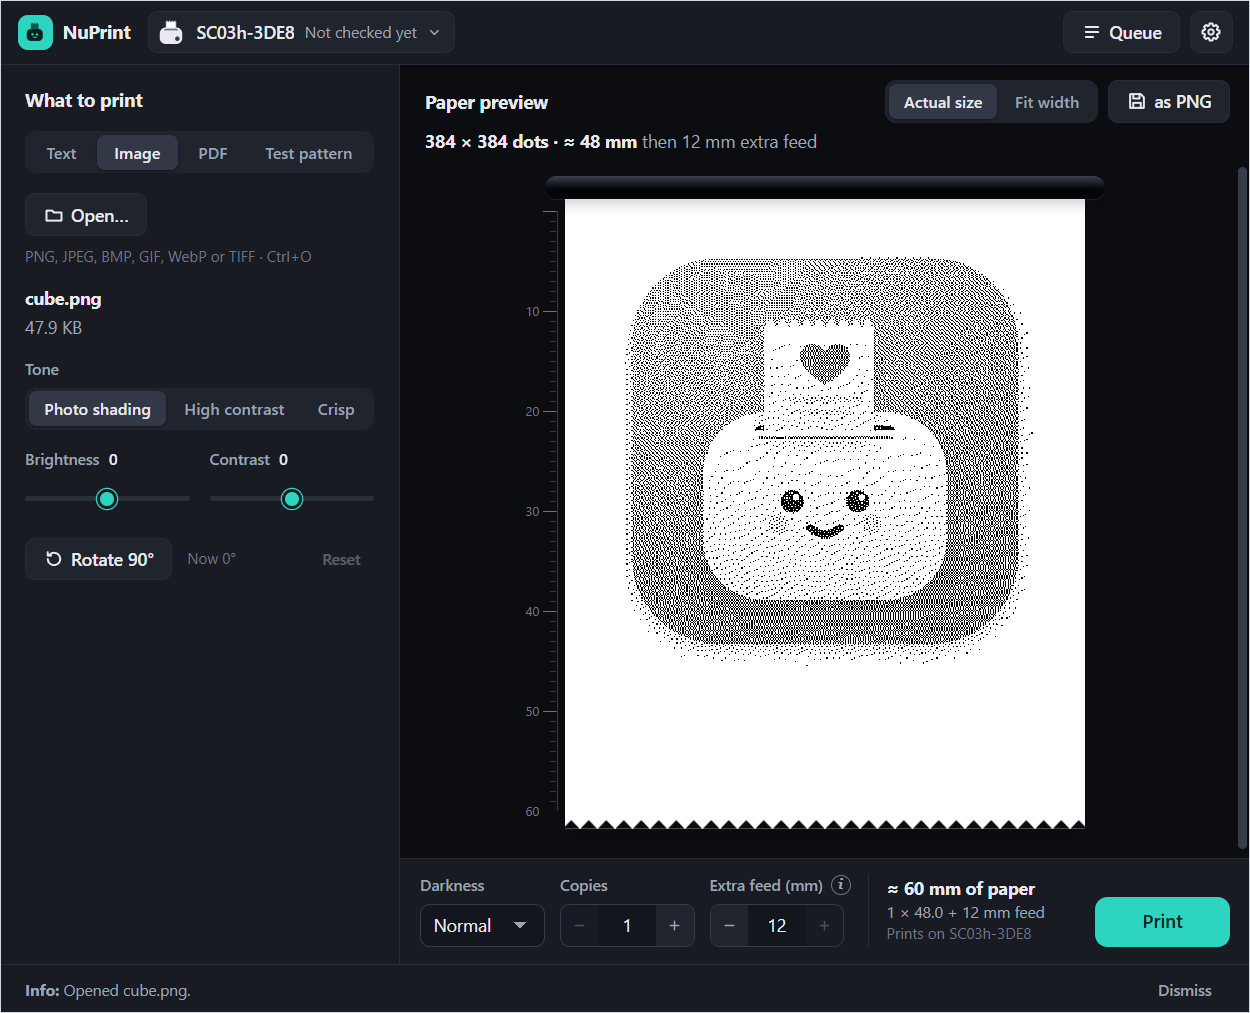
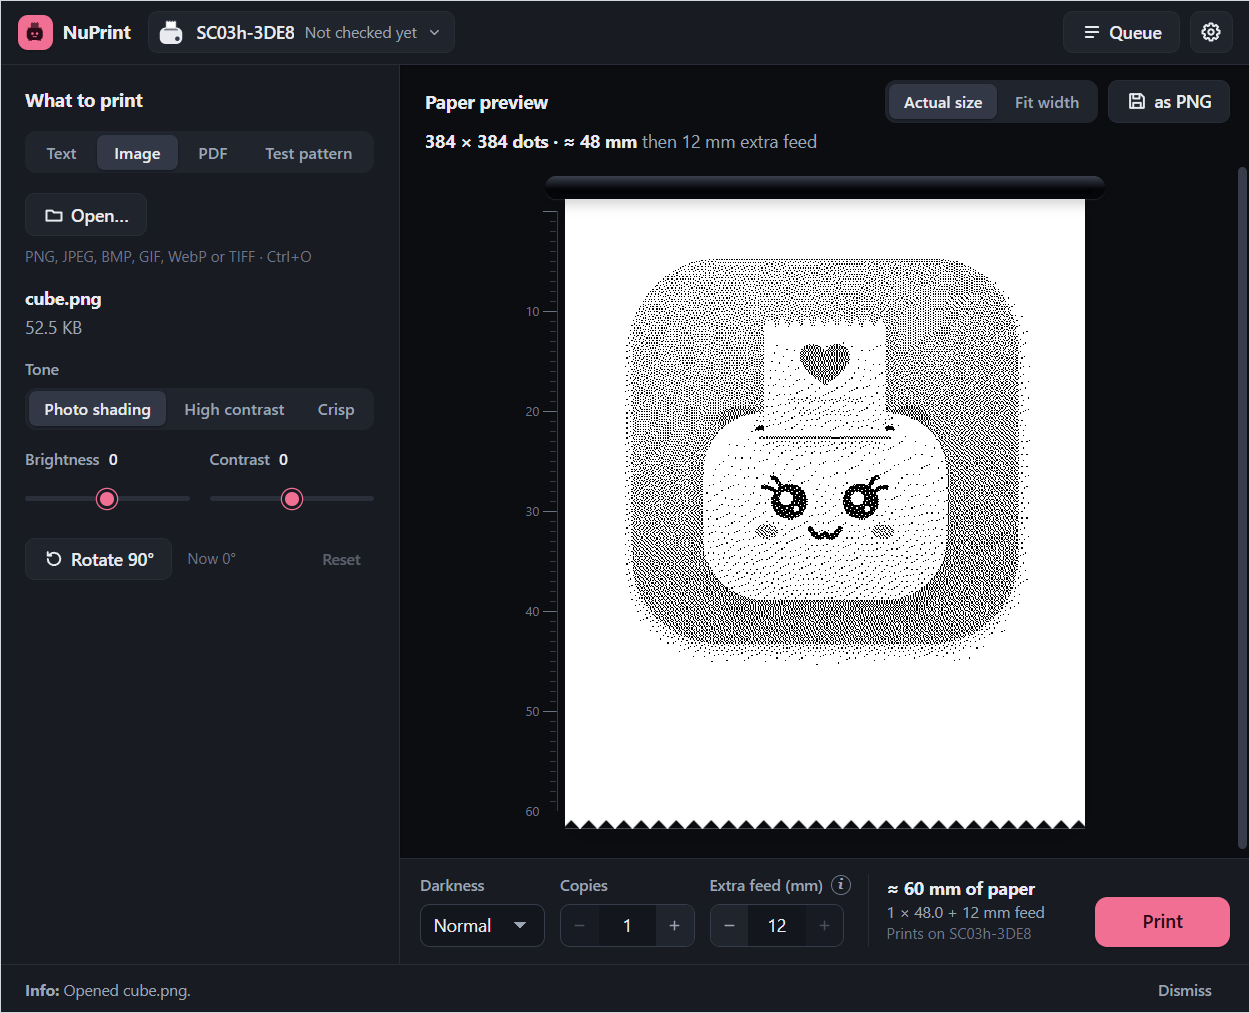
docs: retake the screenshots in pink
The screenshots showed the indigo and teal accents and the orange icon.
They are retaken from the dev build at the same 1000 x 810 window, with
the pink accent in light and dark mode.

diff --git a/README.md b/README.md
@@ -30,7 +30,7 @@
 - **Yours to style.** Light or dark, four accent colours and four app icons.
 
 <p align="center">
-  <img src="docs/images/app-picture-dark.png" width="49%" alt="A picture dithered for thermal paper, in dark mode with the teal accent">
+  <img src="docs/images/app-picture-dark.png" width="49%" alt="A picture dithered for thermal paper, in dark mode with the pink accent">
   <img src="docs/images/settings-printers.png" width="49%" alt="Settings showing a saved, verified SC03h printer and the Find printers button">
 </p>
 

diff --git a/docs/user-guide.md b/docs/user-guide.md
@@ -48,7 +48,7 @@ A job is **uncertain** when NuPrint can't tell whether it printed, for example i
 
 **Settings → Appearance** sets light or dark mode (or matches the system), the accent colour (pink, indigo, coral, ocean or teal) and the app icon (little printer, curl, ribbon or air roll).
 
-![Settings → Appearance in dark mode with the teal accent](images/settings-appearance-dark.png)
+![Settings → Appearance in dark mode with the pink accent](images/settings-appearance-dark.png)
 
 ### Updates
 
